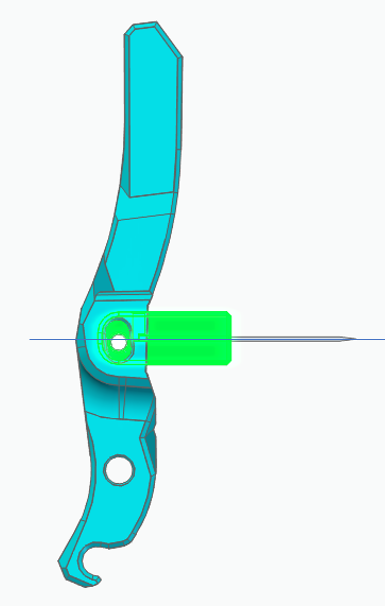
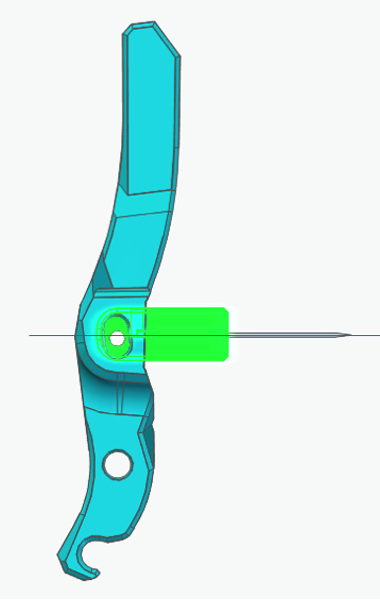
Refined ERF images

Changed region(s): [[0.2026, 0.03, 0.6079, 0.63], [0.1447, 0.66, 0.4053, 0.96]]

diff --git a/Options/ERF_Filament_Cutter/ERF.md b/Options/ERF_Filament_Cutter/ERF.md
@@ -4,7 +4,7 @@
 This is a mod to various toolheads that add a filament cutting possibility rather than having to tune the traditional tip forming process.
 
 ![Image](Assets/ERF.png)
-![image](Assets/ERF2.png
+![image](Assets/ERF2.png)
 
 ### Main Body
 #### Main Body with Filamentsensor Option has been added.
